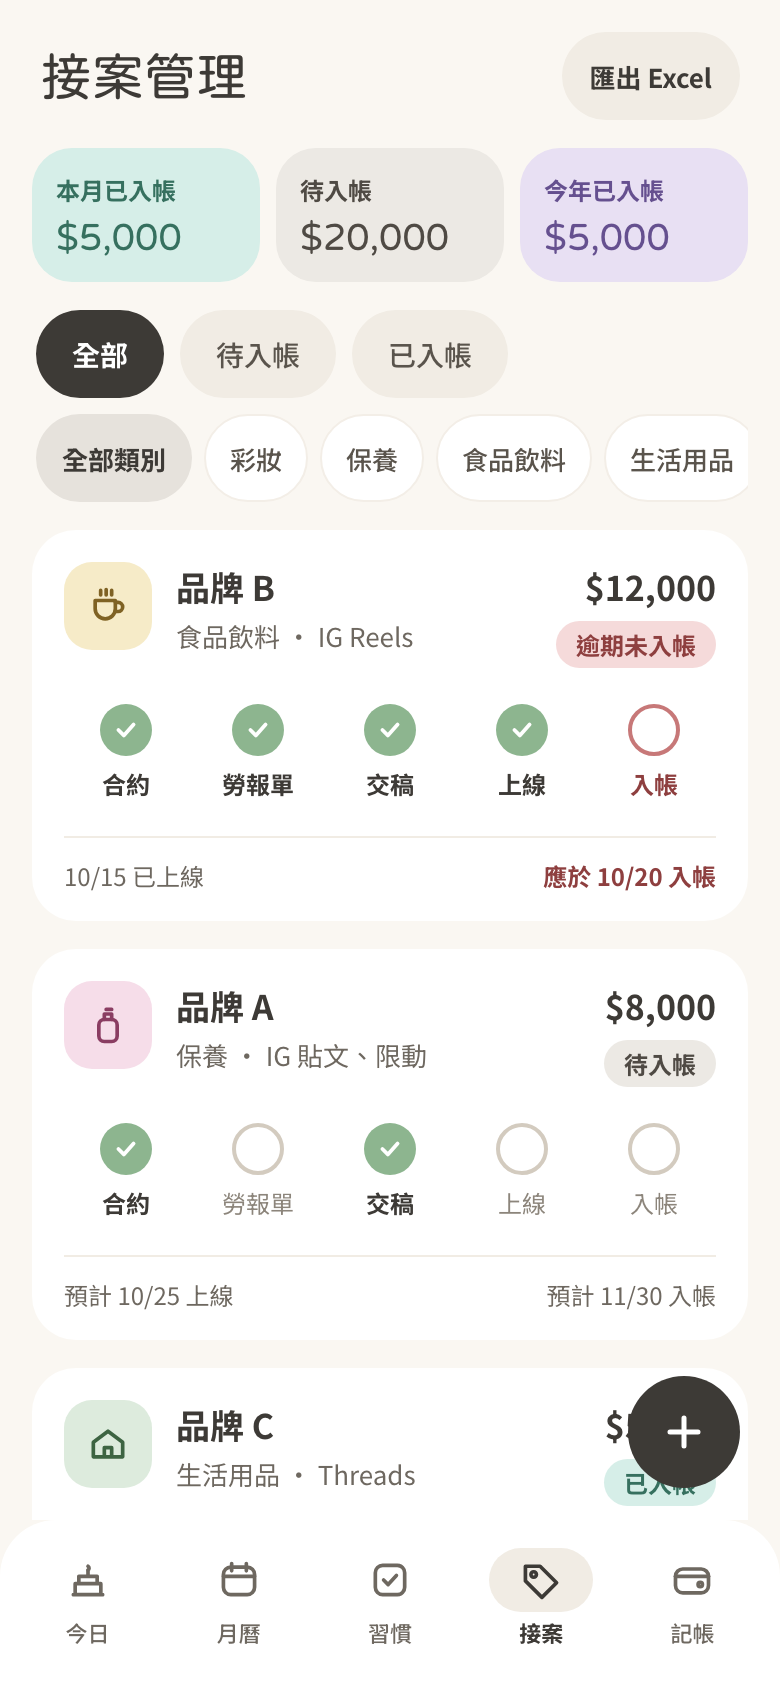
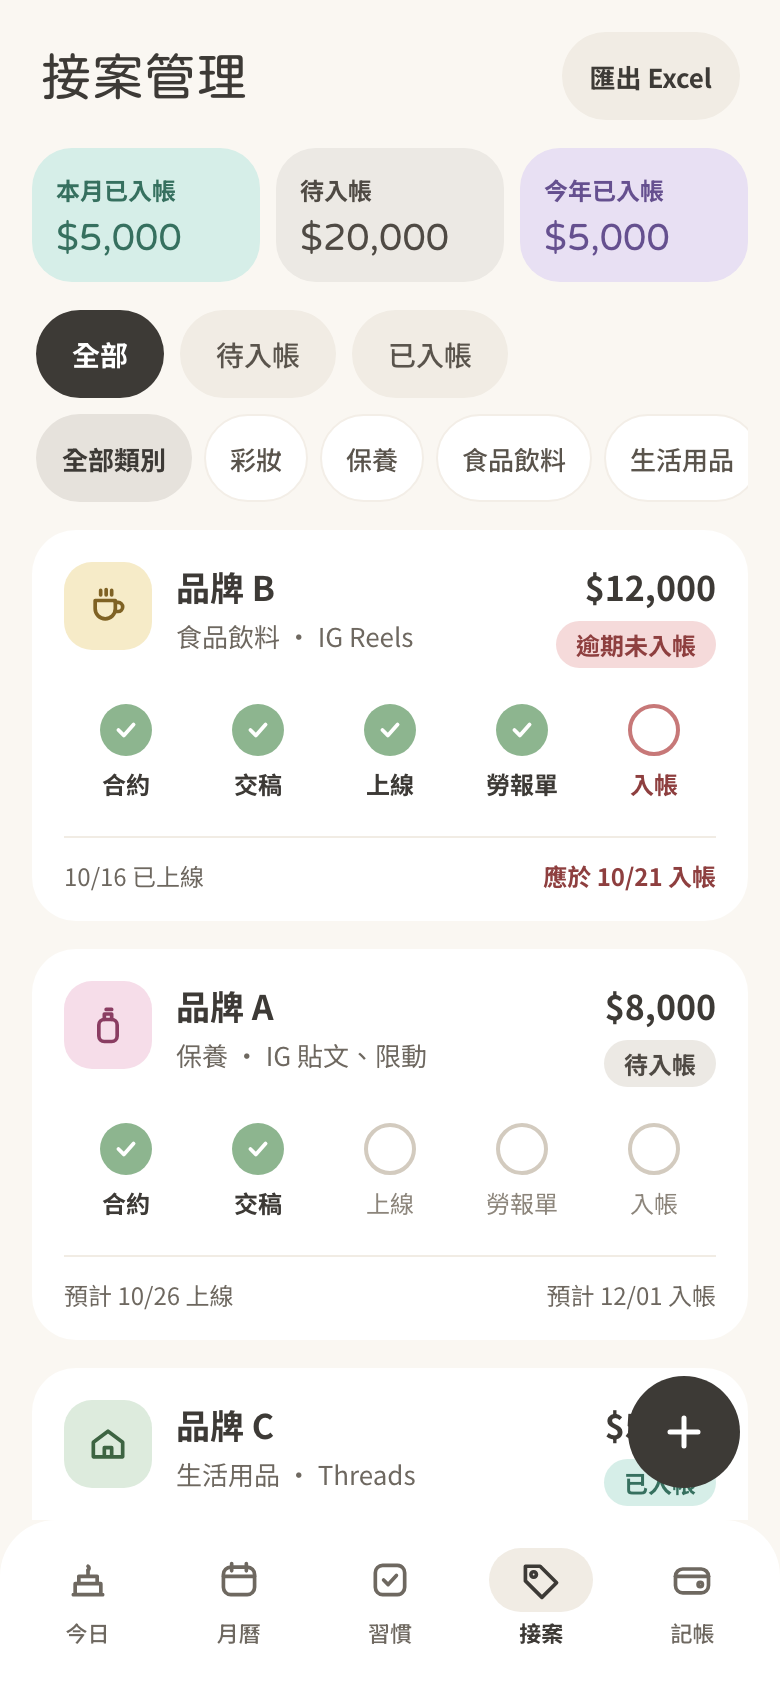
Move the labor form step after going live
Gig steps now run contract → delivery → live → labor form → paid, on the card,
in the cascade and in the export columns.

diff --git a/src/__tests__/gigSteps.spec.ts b/src/__tests__/gigSteps.spec.ts
@@ -28,17 +28,19 @@ describe('gig step circles', () => {
     })
   })
 
-  it('ticking 交稿 only fills in what is still missing before it', () => {
-    expect(stepPatch({ ...none, contract_signed: true }, 'delivered', TODAY)).toEqual({
-      labor_signed: true,
+  it('ticking 勞報單 fills in what is still missing before it', () => {
+    expect(stepPatch({ ...none, contract_signed: true }, 'labor', TODAY)).toEqual({
       delivered: true,
+      is_live: true,
+      labor_signed: true,
     })
   })
 
-  it('unticking 交稿 unticks 上線 and 入帳 too, but not the paperwork', () => {
+  it('unticking 交稿 unticks 上線, 勞報單 and 入帳 too, but not the contract', () => {
     expect(stepPatch(all, 'delivered', TODAY)).toEqual({
       delivered: false,
       is_live: false,
+      labor_signed: false,
       paid_at: null,
     })
   })

diff --git a/src/services/gigSteps.ts b/src/services/gigSteps.ts
@@ -1,10 +1,10 @@
-// The five step circles on a gig card run in order: 合約 → 勞報單 → 交稿 → 上線 → 入帳.
+// The five step circles on a gig card run in order: 合約 → 交稿 → 上線 → 勞報單 → 入帳.
 // Ticking a step ticks every step before it; unticking one unticks every step after it
-// (DECISIONS 46).
+// (DECISIONS 46, order from DECISIONS 56).
 import type { DateKey } from './dates'
 import type { GigRow } from '@/types/db'
 
-export const GIG_STEPS = ['contract', 'labor', 'delivered', 'live', 'paid'] as const
+export const GIG_STEPS = ['contract', 'delivered', 'live', 'labor', 'paid'] as const
 export type GigStep = (typeof GIG_STEPS)[number]
 
 type StepFields = Pick<

diff --git a/src/services/export.ts b/src/services/export.ts
@@ -91,9 +91,9 @@ function gigsSheet(r: DateRange, today: DateKey): Sheet {
         g.paid_at ?? '',
         t(g.paid_at ? 'gigs.paid' : overdue ? 'gigs.overdue' : 'gigs.unpaid'),
         yesNo(g.contract_signed),
-        yesNo(g.labor_signed),
         yesNo(g.delivered),
         yesNo(g.is_live),
+        yesNo(g.labor_signed),
         g.contact ?? '',
         g.note ?? '',
       ]
@@ -112,9 +112,9 @@ function gigsSheet(r: DateRange, today: DateKey): Sheet {
       'paidAt',
       'payStatus',
       'contract',
-      'labor',
       'delivered',
       'isLive',
+      'labor',
       'contact',
       'note',
     ].map((c) => t(`export.col.${c}`)),

diff --git a/src/__tests__/export.spec.ts b/src/__tests__/export.spec.ts
@@ -94,7 +94,7 @@ describe('export sheets', () => {
     })
 
     const [gigs] = buildSheets(['gigs'], OCT, TODAY)
-    expect(gigs!.rows.map((r) => [r[0], r[3], r[7], r[8], r[9], r[10]])).toEqual([
+    expect(gigs!.rows.map((r) => [r[0], r[3], r[7], r[8], r[9], r[12]])).toEqual([
       ['品牌 A', 8000, '2026-10-18', '已入帳', '是', '否'],
       ['品牌 B', 12000, '', '逾期未入帳', '否', '否'],
     ])

diff --git a/src/components/GigCard.vue b/src/components/GigCard.vue
@@ -44,7 +44,7 @@ const payText = computed(() => {
   return t(overdue.value ? 'gigs.dueOverdue' : 'gigs.dueOn', { date: md(g.due_date) })
 })
 
-// 合約 → 勞報單 → 交稿 → 上線 → 入帳 (SPEC 4.4)
+// 合約 → 交稿 → 上線 → 勞報單 → 入帳 (DECISIONS 56)
 const steps = computed(() =>
   GIG_STEPS.map((key) => {
     const on = isStepDone(props.gig, key)

diff --git a/docs/DECISIONS.md b/docs/DECISIONS.md
@@ -65,7 +65,7 @@
 43. **CSV**：一個 CSV 只能放一張表，所以選了多項內容時，每項各下載一個 CSV 檔；檔案開頭加 BOM，讓 Excel 正確顯示中文。檔名是「內容名稱_期間」，例如「接案收入_2026.xlsx」、「我的紀錄_2026-10.xlsx」。
 44. **目前存款**（使用者要求，SPEC 沒有）：settings 加 `savings_amount`、`savings_date`、`savings_set_at`。在 `/settings/savings` 輸入「某一天開始前總共有多少錢」和那一天（預設本月第一天），那天（含）之後日期的每一筆收入加上去、支出扣掉，不管是什麼時候記的；輸入時即時預覽「這段期間的收支」和結果。記帳頁總覽卡最上方顯示目前存款，點一下可以修改或選「不使用目前存款」。它不跟著上方切換的月份變，本月結餘照舊只算當月。（沒有 `savings_date` 的舊資料改用「設定之後才記的帳」計算。）
 45. **記帳明細可以篩選**（使用者要求）：明細標題下方有「全部／支出／收入」切換，再下面一排分類膠囊（全部分類＋目前收支類型的分類；選「全部」時支出和收入的分類都列出）。每天的合計只算顯示出來的那幾筆；上方的總覽卡和分類統計不受影響。
-46. **接案的五個圈圈照順序連動**（使用者要求）：合約 → 勞報單 → 交稿 → 上線 → 入帳。勾某一步，它前面還沒勾的會一起勾（勾入帳會把今天記為入帳日）；取消某一步，它後面的會一起取消（取消到入帳時，自動記的收入照規則 4 刪掉）。一次存成一筆修改，同步規則照常執行。
+46. **接案的五個圈圈照順序連動**（使用者要求）：合約 → 交稿 → 上線 → 勞報單 → 入帳（順序見第 56 點）。勾某一步，它前面還沒勾的會一起勾（勾入帳會把今天記為入帳日）；取消某一步，它後面的會一起取消（取消到入帳時，自動記的收入照規則 4 刪掉）。一次存成一筆修改，同步規則照常執行。
 
 ## 第 8 階段（2026-10-24）
 
@@ -85,3 +85,4 @@
     - 設定 → 記帳 →「固定收支」列出全部，點進去用記一筆的畫面編輯，或「停止重複」（已經記的帳保留，變成一般的帳）。連到接案的收入不能設定重複。明細裡自動記的帳會標「固定」。
 54. **快速記帳網址**（使用者要求）：`/add/money?amount=150&note=7-11&type=expense&category=food`，參數都可以省略；amount 接受 Apple Pay 傳來的格式（例如「NT$1,280.00」，四捨五入到元）；category 可以填 key 或中英文名稱。給 iPhone 捷徑、背面輕點和錢包自動化使用。iPhone 的捷徑打開網址會用 Safari，跟主畫面上的 app 是分開登入的，所以要先在 Safari 登入一次。
 55. **記帳頁顯示「預計」的固定收支**（使用者要求）：明細上方列出目前顯示的期間內、還沒到日子的固定收支（灰色、虛線圓點），跟著收支和分類篩選，點一下打開那個固定收支；不算進結餘、收支、預算和分類統計。
+56. **接案步驟改成合約 → 交稿 → 上線 → 勞報單 → 入帳**（使用者要求，取代 SPEC 4.4 的順序）：勞報單通常上線後才簽。卡片的圈圈、連動規則和匯出的欄位順序都照這個順序。

diff --git a/README.md b/README.md
@@ -27,7 +27,7 @@ Traditional Chinese and English, switchable in Settings.
 - Monthly record per habit with current and best streaks (unscheduled days don't break a streak).
 
 **Gigs** (brand collaborations)
-- Cards with five steps in order — contract → labor form → delivery → live → paid — that tick and untick together.
+- Cards with five steps in order — contract → delivery → live → labor form → paid — that tick and untick together.
 - Paid / unpaid / overdue status, totals for the month and year, filters by payment status and product category.
 
 **Money**
